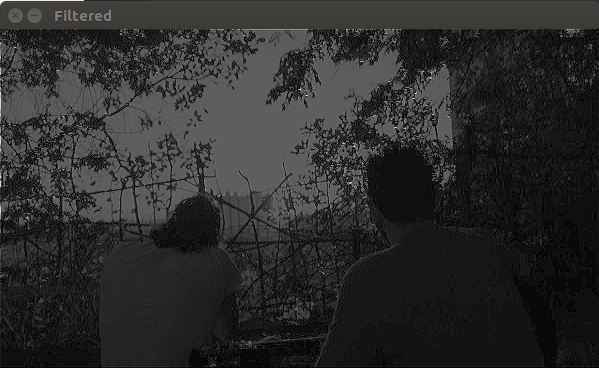
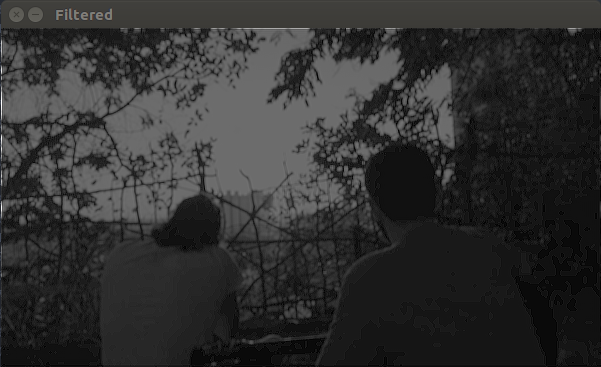
Corrected images from homomorphic filter and started Canny

diff --git a/index.md b/index.md
@@ -994,7 +994,7 @@ Abaixo podemos ver a imagem original, seguida da máscara aplicada no tiltshift 
 
 
 # Unidade 2
-## 1. Filtro Homomorfico
+## 1. Filtro Homomórfico
 #### 1.1. Descrição
 
 Este programa tem como objetivo a aplicação de um filtro homomórfico na imagem. Esse filtro é aplicado no domínio da frequência e tem como objetivo realçar detalhes em uma cena com iluminação regular. Esse resultado é obtido realizando uma atenuação nas componentes de baixa frequência (geralmente relacionadas a componente de iluminação da cena) ao mesmo tempo que se aplica um ganho as componentes de alta frequência (geralmente relacionadas a componente de reflectância dos objetos da cena).
@@ -1024,6 +1024,9 @@ dft_n = cv2.getOptimalDFTSize(width)
 
 # copy the image with padding to another image
 padded_img = cv2.copyMakeBorder(img, 0, dft_m-height, 0, dft_n-width, cv2.BORDER_CONSTANT, value=0)
+
+# apply some blurring to reduce noise
+padded_img = cv2.blur(padded_img,(3,3))
 
 # create a coppy of the padded image as floating point
 float_img = np.float32(padded_img)
@@ -1150,3 +1153,37 @@ Aplicamos o filtro a uma cena escura e com iluminação irregular. Como podemos 
 ![mask](gabrielsig.github.io/images/homomorphic/mask.png)
 
 ![filtered](gabrielsig.github.io/images/homomorphic/filtered.png)
+
+
+
+
+
+## 2. Detector de bordas de Canny para efeito pontilhismo
+#### 2.1. Descrição
+
+Para esse exercício foi desenvolvido um algoritmo que aplica um efeito de pontilhismo a uma imagem. Esse efeito é gerado em duas etapas: selecionamos uma porção de pontos e desenhamos círculos aleatoriamente com raio variando entre dois limiares,  dessa forma obtemos uma versão pontilhista mas sem detalhes da imagem original. Posteriormente, aplicamos o detector de bordas de  Canny e usamos o seu output para desenhar círculos menores nas regiões de borda da imagem. Assim, obtemos um efeito pontilhista que preserva os detalhes da imagem original.
+
+O código completo dessa aplicação pode ser encontrado [aqui](gabrielsig.github.io/codes/pointillism_canny.py).
+
+#### 2.2. Explicando o código
+
+
+
+#### 2.3 Resultados
+
+
+
+
+
+
+
+
+
+## 3. Clusterização de cores com K Means
+#### 3.1. Descrição
+
+
+#### 3.2. Explicando o código
+
+
+#### 3.3 Resultados
